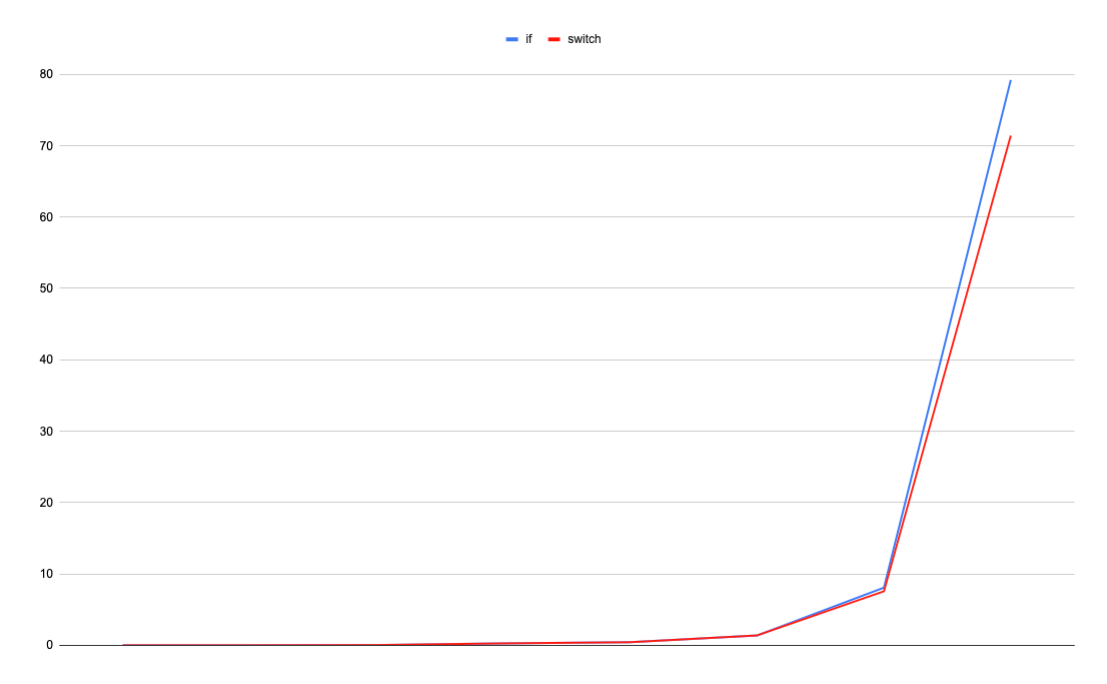
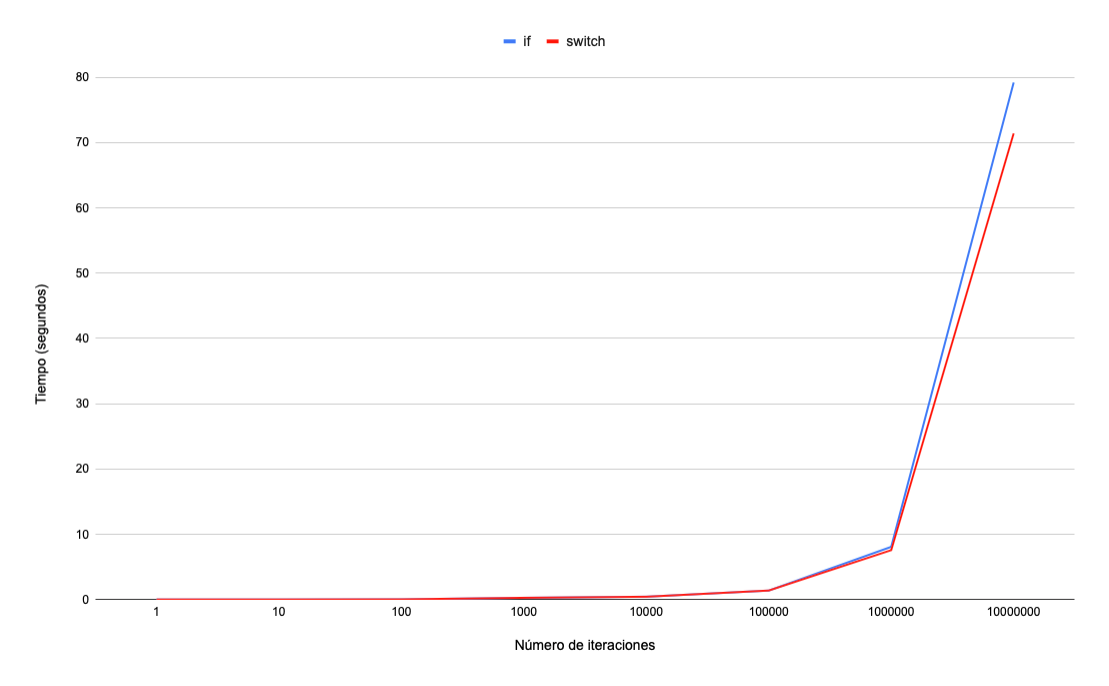
Títulos horizontal y vertical añadidos

diff --git a/main.tex b/main.tex
@@ -157,9 +157,13 @@ para macOS\cite{garageband}
             \hline
         \end{tabular}
     \end{center}
-    Como se puede ver en la gráfica, la diferencia no es apreciable hasta las 1000000 iteraciones,
-    pero después pasa a casi 8 segundos de diferencia en 10000000 iteraciones. Por esta razón se
-    ha decidido que la función utilice la estructura \textit{switch-case}.
+    Como se puede ver en la gráfica, la diferencia no es apreciable hasta las 1000000 iteraciones, pero después
+    pasa a casi 8 segundos de diferencia en 10000000 iteraciones. Por esta razón se ha decidido que la función
+    utilice la estructura \textit{switch-case}.\newline
+    Finalmente, debido a la manera en la que realizan las comprobaciones de qué botones y sensores son utilizados,
+    aunque un \textit{switch-case} es más rápido, esta estructura se reserva para la versión del programa que
+    reproduce los sonidos leyendo del teclado. En el programa que controla los sensores se utiliza una estructura
+    \textit{if-else}.
 
 
 %%%%%%%%%%%%%%%%%%%%%%%%%%%%%%%%%%%%%%%%%%%%%%%%%%%%%%%%%%%%%%%%%%%%%%%%%%%%%%%%%
